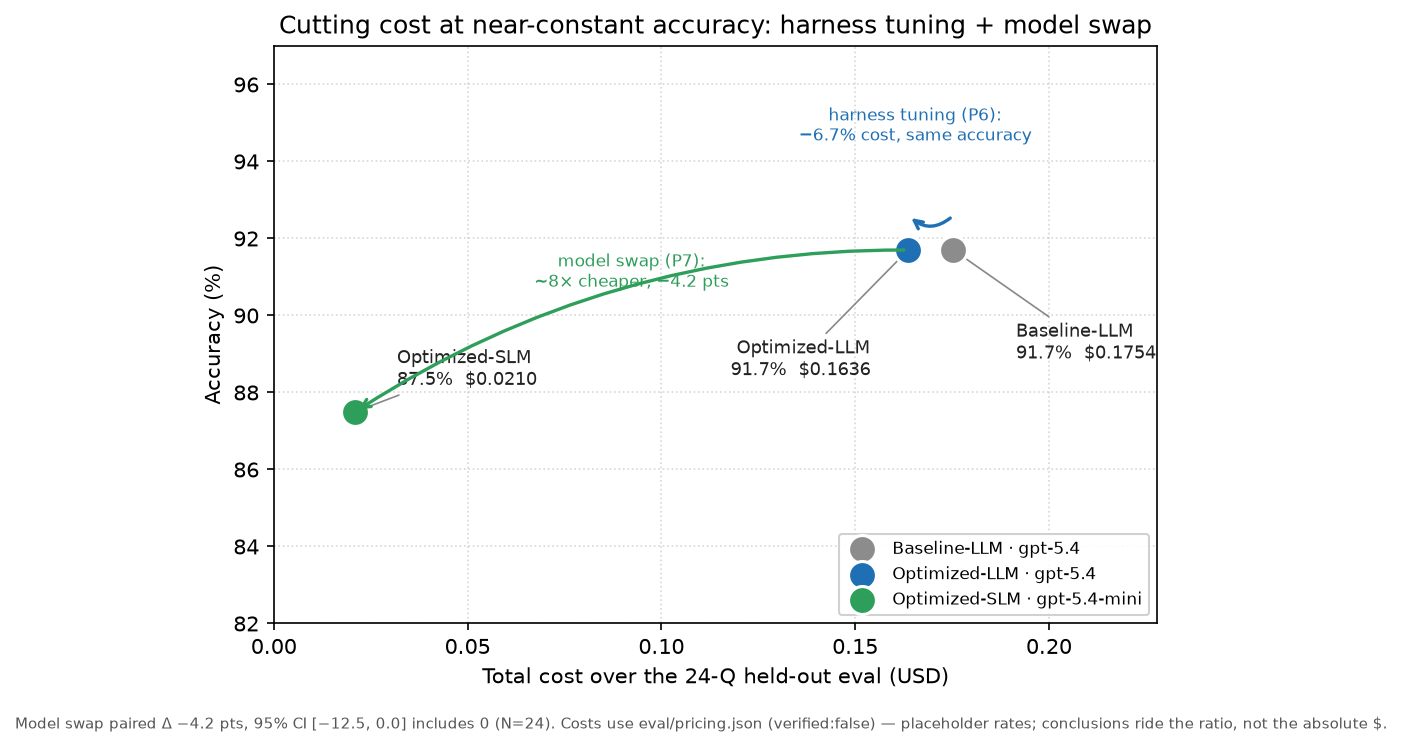
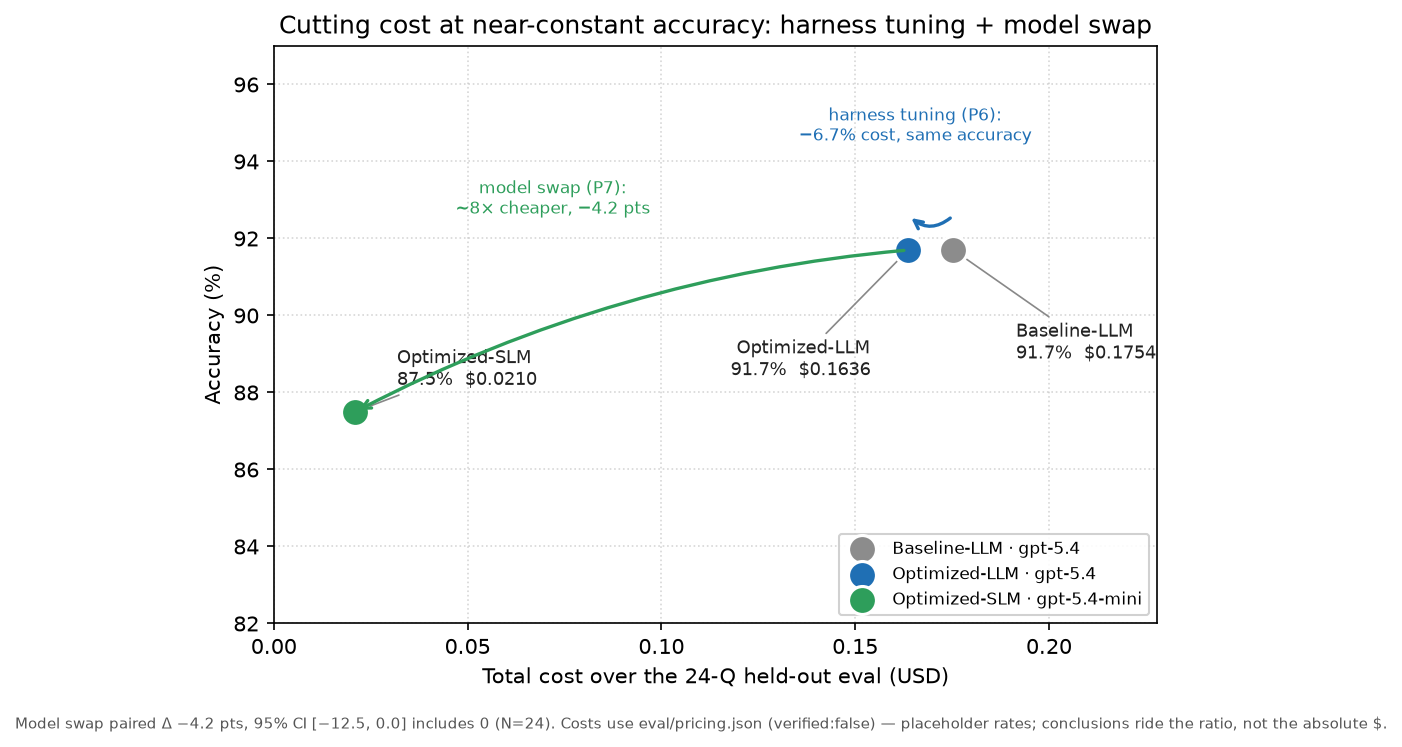
Phase 8 polish: nudge model-swap label clear of the green connector arc

diff --git a/scripts/make_charts.py b/scripts/make_charts.py
@@ -175,10 +175,10 @@ def chart_accuracy_vs_cost(runs: list[dict]) -> None:
         "", xy=(green["cost_usd"], green["accuracy_pct"]),
         xytext=(blue["cost_usd"], blue["accuracy_pct"]),
         arrowprops=dict(arrowstyle="->", color="#2e9e5b", lw=1.6,
-                        connectionstyle="arc3,rad=0.15"), zorder=5,
+                        connectionstyle="arc3,rad=0.10"), zorder=5,
     )
     ax.text(
-        (blue["cost_usd"] + green["cost_usd"]) / 2, 90.6,
+        0.072, 92.5,
         "model swap (P7):\n~8× cheaper, −4.2 pts",
         ha="center", va="bottom", fontsize=8, color="#2e9e5b",
     )
